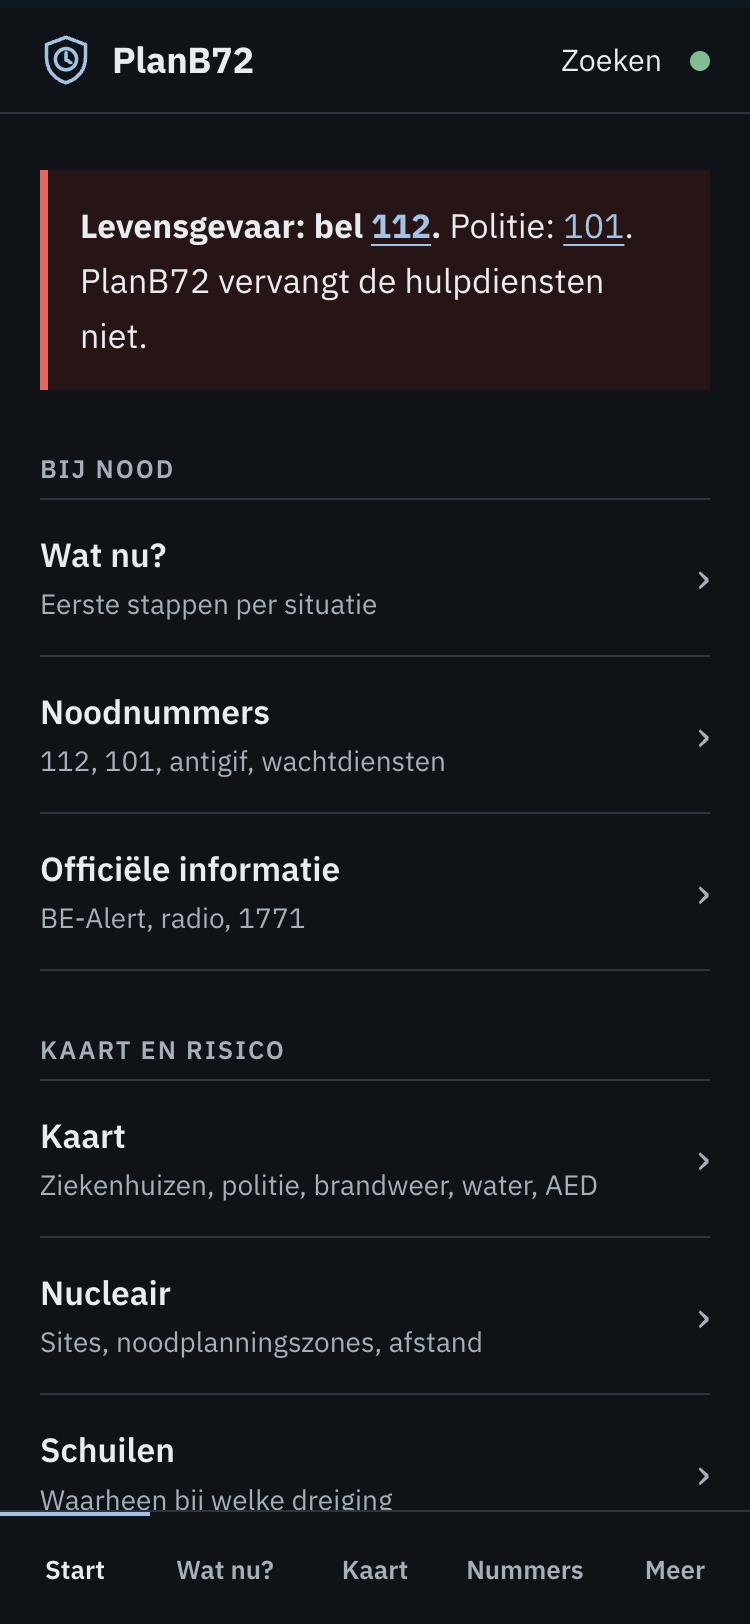
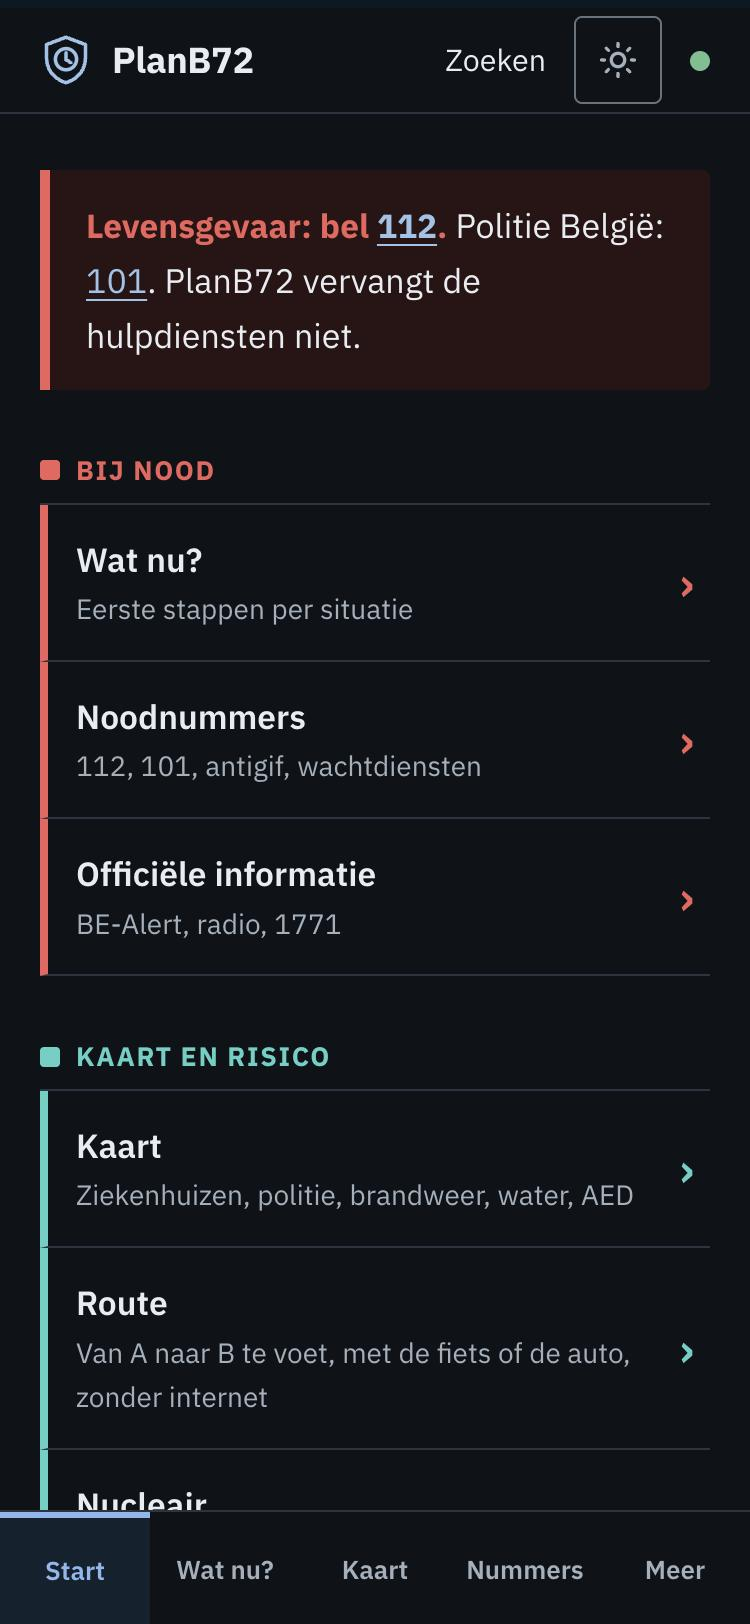
Duidelijkere kleurtaal en contrast in website en app
- semantische kleuren met vaste betekenis: rood nood, oranje waarschuwing en concept,
  blauw informatie en acties, groen bevestigd; getinte meldingen
- rubriekkleuren in de app (nood, kaart en risico, voorbereiden, hulpmiddelen, naslag)
  op lijsten, kopjes en pijltjes; gidsen per groep gekleurd
- eerste stappen als blauw kader met genummerde cirkels, vermijden in rood
- koppen in teksten met accentbalk, gekleurde opsommingstekens, tabellen met kop en
  afwisselende rijen, actieve tab in de onderbalk gemarkeerd
- homepage: getinte hero, gekleurde functieblokken, nieuwe schermafbeeldingen
- alle kleurparen >= 4.5:1 in licht en donker

diff --git a/site/src/styles/global.css b/site/src/styles/global.css
@@ -35,6 +35,21 @@
   --ok: light-dark(#1d6b40, #6cc08e);
   --kopband: light-dark(#12385c, #0b1824);
 
+  /* Semantische kleuren: altijd dezelfde betekenis. Tekstkleuren >= 4.5:1 op --bg en op hun eigen tint. */
+  --info: light-dark(#1a5490, #8ab8ee);
+  --info-bg: light-dark(#edf4fb, #13212f);
+  --waarschuwing: light-dark(#8a4b00, #f2b260);
+  --waarschuwing-bg: light-dark(#fff4e0, #2a1f0e);
+  --ok-bg: light-dark(#e9f6ee, #11241a);
+
+  /* Rubrieken in de app: elk een eigen accent (rand, kop, pijltje). */
+  --r-nood: light-dark(#b42318, #f0605d);
+  --r-kaart: light-dark(#0b6e66, #4fd1c5);
+  --r-voorbereiden: light-dark(#9a4d00, #f6ad55);
+  --r-hulp: light-dark(#5b2bb5, #b794f4);
+  --r-naslag: light-dark(#1a5490, #8ab8ee);
+  --accent: var(--merk);
+
   --radius: 4px;
   --max: 72rem;
   --font: "Plex", system-ui, -apple-system, "Segoe UI", Roboto, sans-serif;
@@ -161,14 +176,17 @@ main > p, main > ul, main > ol, main > dl, main section > p, .lead { max-width: 
 .kaart-blok > :first-child { margin-top: 0; }
 .kaart-blok > :last-child { margin-bottom: 0; }
 
-.melding { border-left: 4px solid var(--merk); background: var(--bg-2); padding: 14px 16px; margin: 1.25rem 0; }
-.melding.waarschuwing { border-color: var(--rand-sterk); }
+.melding { border-left: 5px solid var(--info); background: var(--info-bg); padding: 14px 18px; margin: 1.25rem 0; border-radius: 0 var(--radius) var(--radius) 0; }
+.melding strong:first-child { color: var(--info); }
+.melding.waarschuwing { border-color: var(--waarschuwing); background: var(--waarschuwing-bg); }
+.melding.waarschuwing strong:first-child { color: var(--waarschuwing); }
 .melding.gevaar { border-color: var(--gevaar); background: var(--gevaar-bg); }
+.melding.gevaar strong:first-child, .melding.gevaar strong { color: var(--gevaar); }
 .melding > :first-child { margin-top: 0; }
 .melding > :last-child { margin-bottom: 0; }
 
-.concept { border-left: 3px solid var(--rand-sterk); color: var(--tekst-2); padding: 4px 0 4px 14px; font-size: 0.9rem; margin: 1.5rem 0; }
-.concept strong { color: var(--tekst); }
+.concept { border-left: 5px solid var(--waarschuwing); background: var(--waarschuwing-bg); color: var(--tekst); padding: 12px 16px; font-size: 0.92rem; margin: 1.5rem 0; border-radius: 0 var(--radius) var(--radius) 0; }
+.concept strong { color: var(--waarschuwing); }
 
 /* Lijst met doorklikregels (app-start, wat nu, meer). */
 .raster { display: grid; grid-template-columns: 1fr; border-top: 1px solid var(--rand); }
@@ -177,17 +195,25 @@ main > p, main > ul, main > ol, main > dl, main section > p, .lead { max-width: 
   display: grid; grid-template-columns: 1fr auto; align-items: center; column-gap: 12px;
   padding: 14px 0; border-bottom: 1px solid var(--rand); color: var(--tekst); text-decoration: none;
 }
-.tegel::after { content: "›"; grid-column: 2; grid-row: 1 / span 2; color: var(--tekst-2); font-size: 1.4rem; }
+.tegel::after { content: "›"; grid-column: 2; grid-row: 1 / span 2; color: var(--accent); font-size: 1.5rem; font-weight: 600; }
+.tegel { border-left: 4px solid var(--accent); padding-left: 14px; padding-right: 8px; }
+.tegel:hover { background: color-mix(in oklab, var(--accent) 10%, var(--bg)); }
 .tegel strong { font-weight: 600; }
 .tegel span.klein { grid-column: 1; }
 .tegel:hover strong { text-decoration: underline; text-underline-offset: 0.18em; }
-.sectiekop { font-size: 0.8rem; font-weight: 600; letter-spacing: 0.08em; text-transform: uppercase; color: var(--tekst-2); margin: 2rem 0 0.4rem; }
+.sectiekop { font-size: 0.85rem; font-weight: 700; letter-spacing: 0.06em; text-transform: uppercase; color: var(--accent); margin: 2rem 0 0.5rem; display: flex; align-items: center; gap: 8px; }
+.sectiekop::before { content: ""; inline-size: 10px; block-size: 10px; border-radius: 2px; background: var(--accent); flex: none; }
+.rubriek-nood { --accent: var(--r-nood); }
+.rubriek-kaart { --accent: var(--r-kaart); }
+.rubriek-voorbereiden { --accent: var(--r-voorbereiden); }
+.rubriek-hulp { --accent: var(--r-hulp); }
+.rubriek-naslag { --accent: var(--r-naslag); }
 
 .label {
   display: inline-block; font-size: 0.7rem; font-weight: 600; letter-spacing: 0.06em; text-transform: uppercase;
   padding: 1px 6px; border-radius: 2px; border: 1px solid var(--rand-sterk); color: var(--tekst-2); vertical-align: middle;
 }
-.label.officieel { color: var(--ok); border-color: var(--ok); }
+.label.officieel { color: var(--ok); border-color: var(--ok); background: var(--ok-bg); }
 .label.osm { color: var(--link); border-color: var(--link); }
 
 .bron { font-size: 0.85rem; color: var(--tekst-2); border-top: 1px solid var(--rand); margin-top: 2rem; padding-top: 0.9rem; }
@@ -198,7 +224,9 @@ main > p, main > ul, main > ol, main > dl, main section > p, .lead { max-width: 
 .tabel-wrap { overflow-x: auto; margin: 1.25rem 0; }
 table { border-collapse: collapse; width: 100%; font-size: 0.95rem; }
 th, td { text-align: left; padding: 10px 12px 10px 0; border-bottom: 1px solid var(--rand); vertical-align: top; }
-thead th { color: var(--tekst-2); font-weight: 600; font-size: 0.9rem; border-bottom-color: var(--rand-sterk); text-wrap: balance; }
+thead th { color: var(--tekst); background: var(--bg-3); font-weight: 700; font-size: 0.9rem; border-bottom: 2px solid var(--accent); text-wrap: balance; padding-left: 10px; }
+tbody tr:nth-child(even) { background: var(--bg-2); }
+td:first-child, th:first-child { padding-left: 10px; }
 
 /* ---------- Formulieren ---------- */
 
@@ -239,11 +267,15 @@ legend { font-weight: 600; padding: 0 6px; }
   display: flex; align-items: center; justify-content: center; min-height: 56px;
   color: var(--tekst-2); text-decoration: none; font-size: 0.82rem; font-weight: 600; border-top: 2px solid transparent;
 }
-.onderbalk a[aria-current="page"] { color: var(--tekst); border-top-color: var(--merk); }
+.onderbalk a[aria-current="page"] { color: var(--info); border-top: 3px solid var(--info); background: var(--info-bg); }
 
 .stappen { counter-reset: stap; list-style: none; padding: 0; max-width: 68ch; }
 .stappen > li { counter-increment: stap; position: relative; padding: 12px 0 12px 40px; border-bottom: 1px solid var(--rand); }
-.stappen > li::before { content: counter(stap) "."; position: absolute; left: 0; top: 12px; width: 32px; font-weight: 700; color: var(--tekst-2); font-variant-numeric: tabular-nums; }
+.stappen > li::before {
+  content: counter(stap); position: absolute; left: 0; top: 11px; inline-size: 28px; block-size: 28px; border-radius: 50%;
+  display: grid; place-items: center; font-weight: 700; font-size: 0.9rem; font-variant-numeric: tabular-nums;
+  background: var(--info); color: light-dark(#ffffff, #0b1824);
+}
 
 /* ---------- Kaart ---------- */
 
@@ -267,7 +299,8 @@ legend { font-weight: 600; padding: 0 6px; }
 .sectie h2.eerste { margin-top: 0; }
 .band { background: var(--bg-2); border-block: 1px solid var(--rand); }
 
-.held { padding: 4rem 0 4.5rem; }
+.held { padding: 4rem 0 4.5rem; background: linear-gradient(180deg, var(--info-bg), var(--bg)); border-bottom: 1px solid var(--rand); }
+.held .boventitel { color: var(--info); }
 .held .wrap { display: grid; grid-template-columns: minmax(0, 1.15fr) minmax(0, 0.85fr); gap: 3rem; align-items: center; }
 @media (max-width: 860px) { .held .wrap { grid-template-columns: 1fr; } .held .toestel { max-width: 280px; } }
 .held h1 { font-size: clamp(2rem, 3vw + 1rem, 3.1rem); margin-top: 0; }
@@ -283,7 +316,11 @@ legend { font-weight: 600; padding: 0 6px; }
 @media (max-width: 860px) { .kolommen-3 { grid-template-columns: 1fr; gap: 1.75rem; } }
 .kolommen-3 h3 { margin: 0 0 0.5rem; font-size: 1.1rem; }
 .kolommen-3 p { margin: 0; color: var(--tekst-2); }
-.kolommen-3 > div { border-top: 2px solid var(--merk); padding-top: 1.1rem; }
+.kolommen-3 > div { border-top: 4px solid var(--accent); padding-top: 1.1rem; }
+.kolommen-3 > div:nth-child(3n+1) { --accent: var(--r-nood); }
+.kolommen-3 > div:nth-child(3n+2) { --accent: var(--r-kaart); }
+.kolommen-3 > div:nth-child(3n+3) { --accent: var(--r-voorbereiden); }
+.kolommen-3 h3 { color: var(--accent); }
 
 .genummerd { counter-reset: n; display: grid; gap: 2.5rem; grid-template-columns: repeat(3, minmax(0, 1fr)); list-style: none; padding: 0; margin: 0; }
 @media (max-width: 860px) { .genummerd { grid-template-columns: 1fr; gap: 1.5rem; } }
@@ -298,7 +335,7 @@ legend { font-weight: 600; padding: 0 6px; }
 .bronnenlijst li { padding: 10px 0; border-bottom: 1px solid var(--rand); display: flex; justify-content: space-between; gap: 1rem; }
 .bronnenlijst span { color: var(--tekst-2); font-size: 0.9rem; text-align: right; }
 
-.statusbalk { font-size: 0.9rem; color: var(--tekst-2); border-left: 3px solid var(--rand-sterk); padding: 2px 0 2px 12px; margin-top: 1.5rem; max-width: 60ch; }
+.statusbalk { font-size: 0.9rem; color: var(--tekst); background: var(--waarschuwing-bg); border-left: 4px solid var(--waarschuwing); padding: 10px 14px; margin-top: 1.5rem; max-width: 60ch; border-radius: 0 var(--radius) var(--radius) 0; }
 
 /* ---------- Afdrukken ---------- */
 
@@ -341,7 +378,8 @@ main.wrap { padding-top: 2.5rem; }
 /* ---------- Uitgebreide teksten (scenario's, gidsen, eerste hulp) ---------- */
 
 .inhoud { max-width: 72ch; }
-.inhoud h2 { margin-top: 2.25rem; padding-top: 1rem; border-top: 1px solid var(--rand); scroll-margin-top: 80px; }
+.inhoud h2 { margin-top: 2.5rem; padding: 0.15rem 0 0.15rem 12px; border-left: 4px solid var(--info); scroll-margin-top: 80px; }
+.inhoud h3 { color: var(--info); }
 .inhoud h3 { margin-top: 1.5rem; scroll-margin-top: 80px; }
 .inhoud ul, .inhoud ol { padding-left: 1.4rem; }
 .inhoud li { margin: 0.35rem 0; }
@@ -354,8 +392,12 @@ main.wrap { padding-top: 2.5rem; }
 .inhoudstafel ol { margin: 0; padding-left: 1.2rem; columns: 2 14rem; column-gap: 2rem; }
 .inhoudstafel li { margin: 0.2rem 0; break-inside: avoid; }
 
-.eerste-stappen { border: 1px solid var(--rand-sterk); border-radius: var(--radius); padding: 4px 18px 8px; margin: 1.25rem 0; max-width: 72ch; }
-.eerste-stappen h2 { font-size: 1.05rem; margin: 0.9rem 0 0.2rem; }
+.eerste-stappen { border: 1px solid color-mix(in oklab, var(--info) 35%, var(--bg)); border-left: 5px solid var(--info); background: var(--info-bg); border-radius: 0 var(--radius) var(--radius) 0; padding: 6px 20px 10px; margin: 1.25rem 0; max-width: 72ch; }
+.eerste-stappen h2 { font-size: 1.1rem; margin: 0.9rem 0 0.3rem; color: var(--info); }
+.eerste-stappen h2 ~ h2 { color: var(--gevaar); }
+.eerste-stappen ul { padding-left: 1.2rem; }
+.eerste-stappen ul li::marker { color: var(--gevaar); }
+.eerste-stappen .stappen > li { border-bottom-color: color-mix(in oklab, var(--info) 20%, var(--bg)); }
 .eerste-stappen .stappen > li:last-child { border-bottom: 0; }
 .voet-badge { margin-top: 2rem; padding-top: 1.25rem; border-top: 1px solid #ffffff22; }
 
@@ -394,3 +436,5 @@ main.wrap { padding-top: 2.5rem; }
 .kaartknop:hover { border-color: var(--tekst-2); background: var(--bg-2); }
 @media (pointer: coarse) { .kaartknop { min-block-size: 44px; } }
 .inhoud a.telnr { font-weight: 600; white-space: nowrap; }
+.inhoud li::marker { color: var(--info); font-weight: 700; }
+.inhoud p > strong:only-child { color: var(--info); }
